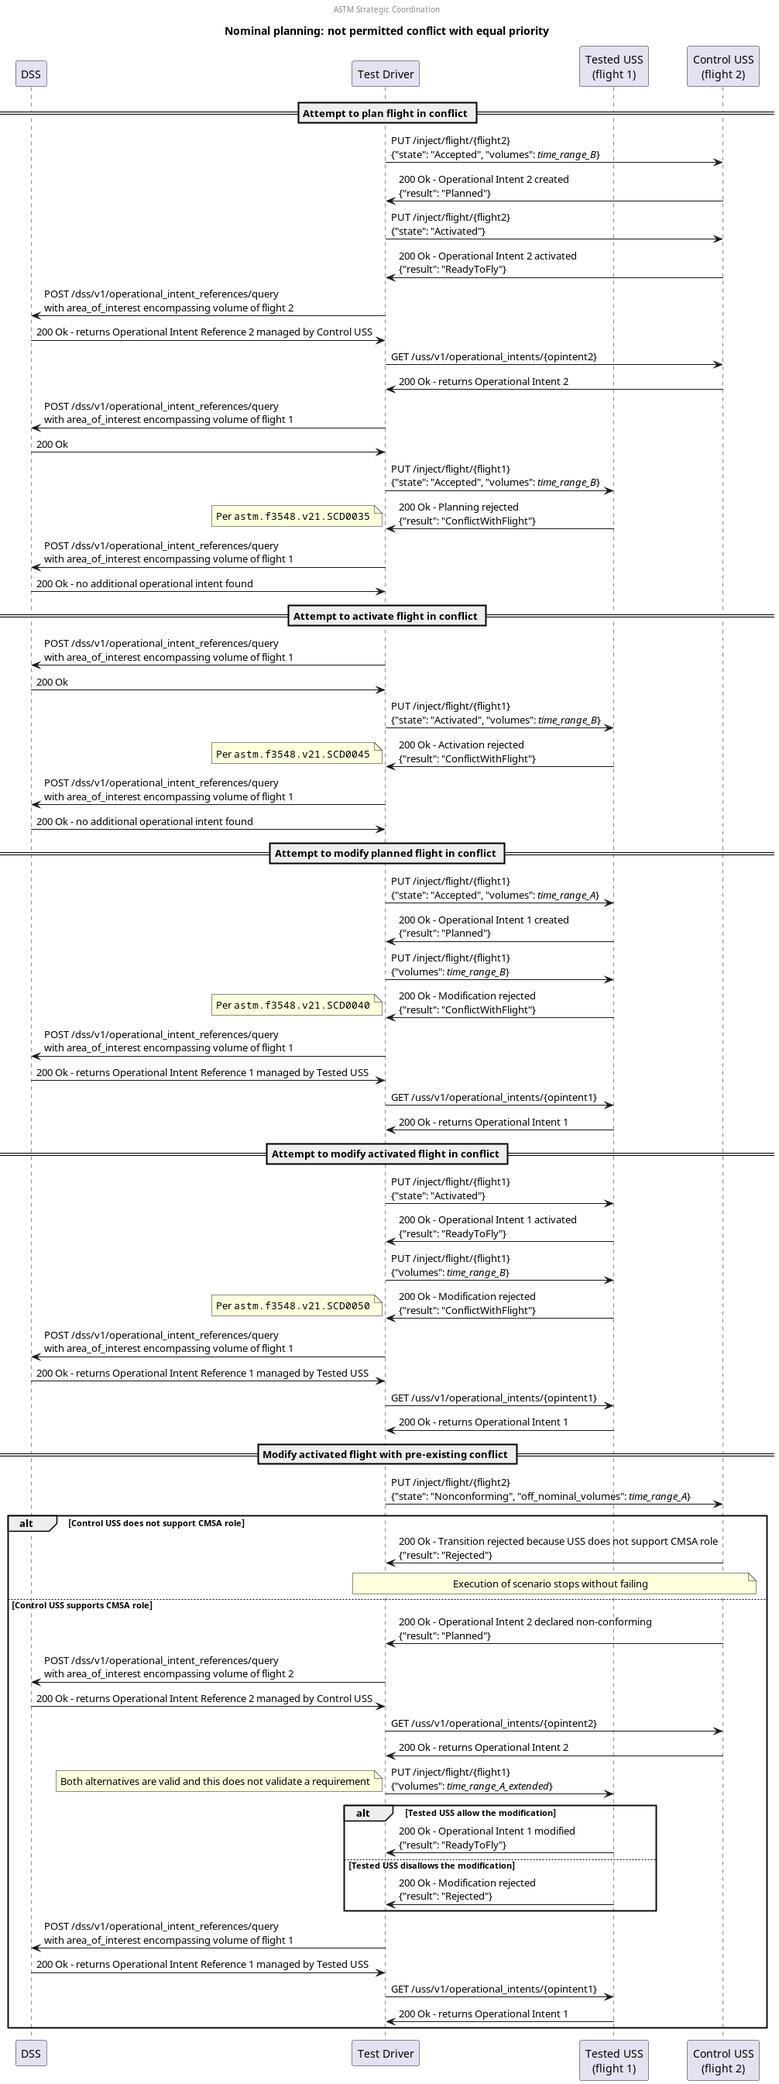
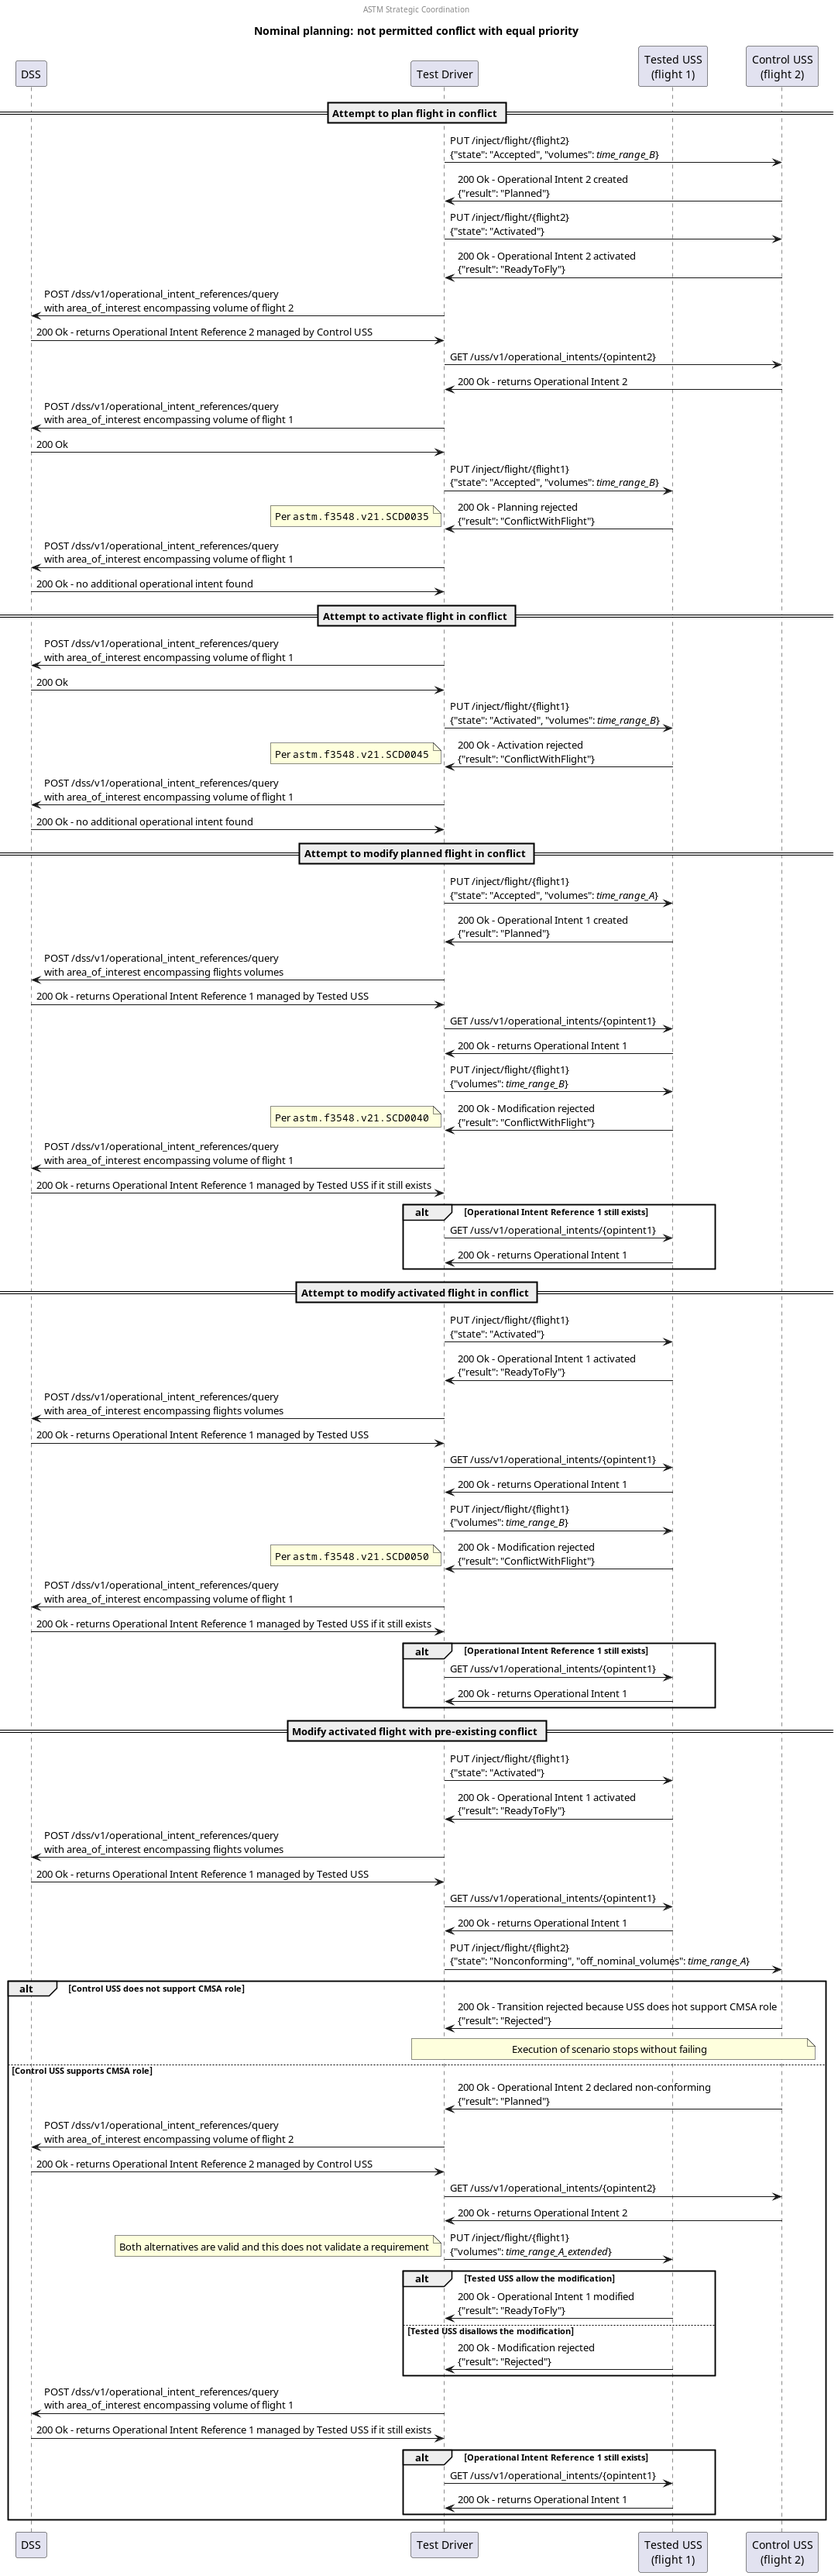
[uss_qualifier/scenarios/utm/nominal_planning] Allow flight deletion after modification rejection (#154)
* [uss_qualifier/scenarios/utm/nominal_planning] Allow flight deletion after modification rejection; fixes #146

* more accurate details

* clarify desc of flight not modified test steps

diff --git a/monitoring/uss_qualifier/scenarios/astm/utm/nominal_planning/conflict_equal_priority_not_permitted/conflict_equal_priority_not_permitted.py b/monitoring/uss_qualifier/scenarios/astm/utm/nominal_planning/conflict_equal_priority_not_permitted/conflict_equal_priority_not_permitted.py
@@ -306,6 +306,14 @@ class ConflictEqualPriorityNotPermitted(TestScenario):
             self.tested_uss,
             self.flight_1_planned_time_range_A.request,
         )
+        validate_shared_operational_intent(
+            self,
+            self.tested_uss,
+            self.dss,
+            "Validate flight 1 sharing",
+            self.flight_1_planned_time_range_A.request,
+            resp_flight_1.operational_intent_id,
+        )
 
         _ = modify_planned_conflict_flight_intent(
             self,
@@ -322,6 +330,7 @@ class ConflictEqualPriorityNotPermitted(TestScenario):
             "Validate flight 1 not modified",
             self.flight_1_planned_time_range_A.request,
             resp_flight_1.operational_intent_id,
+            skip_if_not_found=True,
         )
 
     def _attempt_modify_activated_flight_conflict(self) -> str:
@@ -331,6 +340,14 @@ class ConflictEqualPriorityNotPermitted(TestScenario):
             self.tested_uss,
             self.flight_1_activated_time_range_A.request,
             self.flight_1_id,
+        )
+        validate_shared_operational_intent(
+            self,
+            self.tested_uss,
+            self.dss,
+            "Validate flight 1 sharing",
+            self.flight_1_activated_time_range_A.request,
+            resp_flight_1.operational_intent_id,
         )
 
         _ = modify_activated_conflict_flight_intent(
@@ -348,6 +365,7 @@ class ConflictEqualPriorityNotPermitted(TestScenario):
             "Validate flight 1 not modified",
             self.flight_1_activated_time_range_A.request,
             resp_flight_1.operational_intent_id,
+            skip_if_not_found=True,
         )
 
         return resp_flight_1.operational_intent_id
@@ -355,6 +373,22 @@ class ConflictEqualPriorityNotPermitted(TestScenario):
     def _modify_activated_flight_preexisting_conflict(
         self, orig_flight_1_op_intent_id: str
     ):
+        resp_flight_1 = activate_flight_intent(
+            self,
+            "Activate flight 1",
+            self.tested_uss,
+            self.flight_1_activated_time_range_A.request,
+            self.flight_1_id,
+        )
+        validate_shared_operational_intent(
+            self,
+            self.tested_uss,
+            self.dss,
+            "Validate flight 1 sharing",
+            self.flight_1_activated_time_range_A.request,
+            resp_flight_1.operational_intent_id,
+        )
+
         # TODO: the following call requires the control USS to support CMSA role,
         #  but as there is currently no explicit way of knowing if it is the case
         #  or not, we assume that a Rejected result means the USS does not
@@ -411,6 +445,7 @@ class ConflictEqualPriorityNotPermitted(TestScenario):
                 "Validate flight 1",
                 self.flight_1_activated_time_range_A.request,
                 orig_flight_1_op_intent_id,
+                skip_if_not_found=True,
             )
 
     def cleanup(self):

diff --git a/monitoring/uss_qualifier/scenarios/astm/utm/test_steps.py b/monitoring/uss_qualifier/scenarios/astm/utm/test_steps.py
@@ -1,4 +1,4 @@
-from typing import List, Set
+from typing import List
 
 from monitoring.monitorlib import schema_validation, fetch
 from uas_standards.astm.f3548.v21.api import OperationalIntentState
@@ -101,11 +101,15 @@ def validate_shared_operational_intent(
     test_step: str,
     flight_intent: InjectFlightRequest,
     op_intent_id: str,
-):
+    skip_if_not_found: bool = False,
+) -> bool:
     """Validate that operational intent information was correctly shared for a flight intent.
 
     This function implements the test step described in
     validate_shared_operational_intent.md.
+
+    :returns: True if the operational intent was validated. May return False without failing a check e.g. if the
+    operational intent was not found and skip_if_not_found was True.
     """
     scenario.begin_test_step(test_step)
     extent = bounding_vol4(
@@ -132,12 +136,20 @@ def validate_shared_operational_intent(
         "Operational intent shared correctly", [flight_planner.participant_id]
     ) as check:
         if not matching_op_intent_refs:
-            check.record_failed(
-                summary="Operational intent reference not found in DSS",
-                severity=Severity.High,
-                details=f"USS {flight_planner.participant_id} indicated that it created an operational intent with ID {op_intent_id}, but no operational intent references with that ID were found in the DSS in the area of the flight intent",
-                query_timestamps=[query.request.timestamp],
-            )
+            if not skip_if_not_found:
+                check.record_failed(
+                    summary="Operational intent reference not found in DSS",
+                    severity=Severity.High,
+                    details=f"USS {flight_planner.participant_id} was supposed to have shared an operational intent with ID {op_intent_id}, but no operational intent references with that ID were found in the DSS in the area of the flight intent",
+                    query_timestamps=[query.request.timestamp],
+                )
+            else:
+                scenario.record_note(
+                    flight_planner.participant_id,
+                    f"Operational intent reference with ID {op_intent_id} not found in DSS, instructed to skip test step.",
+                )
+                scenario.end_test_step()
+                return False
     op_intent_ref = matching_op_intent_refs[0]
 
     op_intent, query = dss.get_full_op_intent(op_intent_ref)

diff --git a/monitoring/uss_qualifier/scenarios/astm/utm/nominal_planning/conflict_higher_priority/conflict_higher_priority.py b/monitoring/uss_qualifier/scenarios/astm/utm/nominal_planning/conflict_higher_priority/conflict_higher_priority.py
@@ -264,12 +264,20 @@ class ConflictHigherPriority(TestScenario):
         )
         self.flight_2_id = None
 
-    def _attempt_modify_planned_flight_conflict(self) -> str:
+    def _attempt_modify_planned_flight_conflict(self) -> Optional[str]:
         resp_flight_1, self.flight_1_id = plan_flight_intent(
             self,
             "Plan flight 1",
             self.tested_uss,
             self.flight_1_planned_time_range_A.request,
+        )
+        validate_shared_operational_intent(
+            self,
+            self.tested_uss,
+            self.dss,
+            "Validate flight 1 sharing",
+            self.flight_1_planned_time_range_A.request,
+            resp_flight_1.operational_intent_id,
         )
 
         resp_flight_2, self.flight_2_id = plan_flight_intent(
@@ -294,6 +302,7 @@ class ConflictHigherPriority(TestScenario):
             "Validate flight 1 not modified",
             self.flight_1_planned_time_range_A.request,
             resp_flight_1.operational_intent_id,
+            skip_if_not_found=True,
         )
         validate_shared_operational_intent(
             self,
@@ -322,6 +331,7 @@ class ConflictHigherPriority(TestScenario):
             "Validate flight 1 not activated",
             self.flight_1_planned_time_range_A.request,
             flight_1_op_intent_id,
+            skip_if_not_found=True,
         )
 
     def _modify_activated_flight_conflict_preexisting(self) -> str:
@@ -330,12 +340,20 @@ class ConflictHigherPriority(TestScenario):
         )
         self.flight_2_id = None
 
-        _ = activate_flight_intent(
+        resp_flight_1 = activate_flight_intent(
             self,
             "Activate flight 1",
             self.tested_uss,
             self.flight_1_activated_time_range_A.request,
             self.flight_1_id,
+        )
+        validate_shared_operational_intent(
+            self,
+            self.tested_uss,
+            self.dss,
+            "Validate flight 1 sharing",
+            self.flight_1_activated_time_range_A.request,
+            resp_flight_1.operational_intent_id,
         )
 
         _, self.flight_2_id = plan_flight_intent(
@@ -404,6 +422,7 @@ class ConflictHigherPriority(TestScenario):
             "Validate flight 1 not modified",
             self.flight_1_activated_time_range_A_extended.request,
             flight_1_op_intent_id,
+            skip_if_not_found=True,
         )
         validate_shared_operational_intent(
             self,

diff --git a/monitoring/uss_qualifier/scenarios/astm/utm/nominal_planning/conflict_equal_priority_not_permitted/conflict_equal_priority_not_permitted.md b/monitoring/uss_qualifier/scenarios/astm/utm/nominal_planning/conflict_equal_priority_not_permitted/conflict_equal_priority_not_permitted.md
@@ -103,18 +103,25 @@ Flight 1 should not have been activated directly.
 ### [Plan flight 1 test step](../../../../flight_planning/plan_flight_intent.md)
 Flight 1 on time range A should be successfully planned by the tested USS.
 
+### [Validate flight 1 sharing test step](../../validate_shared_operational_intent.md)
+
 ### [Attempt to modify planned flight 1 in conflict test step](../../../../flight_planning/modify_planned_conflict_flight_intent.md)
 The test driver attempts to modify flight 1 via the tested USS so that it becomes planned on time range B.
 However, this conflicts with flight 2, which is of equal priority but was planned first.
 As such it should be rejected per **[astm.f3548.v21.SCD0040](../../../../../requirements/astm/f3548/v21.md)**.
 
 ### [Validate flight 1 not modified test step](../../validate_shared_operational_intent.md)
-Flight 1 should not have been modified.
+Because the modification attempt was invalid, either Flight 1 should not have been modified (because the USS kept the
+original accepted request), or it should have been removed (because the USS rejected the replacement plan provided).
 
 
 ## Attempt to modify activated flight in conflict test case
 ### [Activate flight 1 test step](../../../../flight_planning/activate_flight_intent.md)
 The test driver activates flight 1 onto its time range A, which should be done successfully.
+Note that flight 1 could be either planned or non-existent before this step. In the latter case, the flight will be
+directly activated without being planned beforehand.
+
+### [Validate flight 1 sharing test step](../../validate_shared_operational_intent.md)
 
 ### [Attempt to modify activated flight 1 in conflict test step](../../../../flight_planning/modify_activated_conflict_flight_intent.md)
 The test driver attempts to modify flight 1 so that it becomes in conflict with flight 2 onto time range B.
@@ -122,10 +129,19 @@ Both flights are activated at that point. However, because the conflict did not 
 initiated, it should be rejected per **[astm.f3548.v21.SCD0050](../../../../../requirements/astm/f3548/v21.md)**.
 
 ### [Validate flight 1 not modified test step](../../validate_shared_operational_intent.md)
-Flight 1 should not have been modified.
+Because the modification attempt was invalid, either Flight 1 should not have been modified (because the USS kept the
+original accepted request), or it should have been removed (because the USS rejected the replacement plan provided).
 
 
 ## Modify activated flight with pre-existing conflict test case
+### [Activate flight 1 test step](../../../../flight_planning/activate_flight_intent.md)
+The test driver activates flight 1 onto its time range A, which should be done successfully.
+Note that flight 1 could be either already activated or non-existent before this step. In the former case, the call is
+idempotent and nothing should change. In the latter case, the flight will be directly activated without being planned
+beforehand.
+
+### [Validate flight 1 sharing test step](../../validate_shared_operational_intent.md)
+
 ### Declare flight 2 non-conforming test step
 The test driver instructs the control USS to declare flight 2 as non-conforming with an off-nominal volume onto time
 range A. This makes non-conforming flight 2 conflicts with activated flight 1.
@@ -168,8 +184,9 @@ to reject or accept the flight. If the USS indicates that the injection attempt 
 
 ### [Validate flight 1 test step](../../validate_shared_operational_intent.md)
 This step validates that the response of the USS is consistent with the flight shared, i.e. either it was properly
-modified or it remained the same as previously.
-
+modified, or the USS considered the attempt invalid. In the latter case, because the modification attempt was invalid,
+either Flight 1 should not have been modified (because the USS kept the original accepted request), or it should have
+been removed (because the USS rejected the replacement plan provided).
 
 ## Cleanup
 ### Successful flight deletion check

diff --git a/monitoring/uss_qualifier/scenarios/astm/utm/nominal_planning/conflict_higher_priority/conflict_higher_priority.md b/monitoring/uss_qualifier/scenarios/astm/utm/nominal_planning/conflict_higher_priority/conflict_higher_priority.md
@@ -83,6 +83,8 @@ higher priority. As such it should be rejected per **[astm.f3548.v21.SCD0015](..
 ### [Plan flight 1 test step](../../../../flight_planning/plan_flight_intent.md)
 The first flight should be successfully planned by the tested USS.
 
+### [Validate flight 1 sharing test step](../../validate_shared_operational_intent.md)
+
 ### [Plan flight 2 test step](../../../../flight_planning/plan_flight_intent.md)
 The second flight should be successfully planned by the control USS.
 It conflicts with flight 1, but it has higher priority.
@@ -93,19 +95,21 @@ However, it conflicts with flight 2, which is of higher priority and was planned
 As such it should be rejected per **[astm.f3548.v21.SCD0020](../../../../../requirements/astm/f3548/v21.md)**.
 
 ### [Validate flight 1 not modified test step](../../validate_shared_operational_intent.md)
-The first flight should not have been modified.
+Because the modification attempt was invalid, either Flight 1 should not have been modified (because the USS kept the
+original accepted request), or it should have been removed (because the USS rejected the replacement plan provided).
 
 ### [Validate flight 2 sharing test step](../../validate_shared_operational_intent.md)
 
 
 ## Attempt to activate flight in conflict test case
 ### [Attempt to activate conflicting flight 1 test step](../../../../flight_planning/activate_priority_conflict_flight_intent.md)
-The test driver attempts to activate planned flight 1, however, it conflicts with flight 2, which is also planned and of
-higher priority.
+The test driver attempts to activate flight 1, however, it conflicts with flight 2, which is also planned and of
+higher priority. Note that flight 1 could be either planned or non-existent before this step.
 As such it should be rejected per **[astm.f3548.v21.SCD0025](../../../../../requirements/astm/f3548/v21.md)**.
 
 ### [Validate flight 1 not activated test step](../../validate_shared_operational_intent.md)
-The first flight should not have been activated.
+Because the modification attempt was invalid, either Flight 1 should not have been modified (because the USS kept the
+original accepted request), or it should have been removed (because the USS rejected the replacement plan provided).
 
 
 ## Modify activated flight with pre-existing conflict test case
@@ -113,6 +117,10 @@ The first flight should not have been activated.
 
 ### [Activate flight 1 test step](../../../../flight_planning/activate_flight_intent.md)
 The test driver activates flight 1, which should be done successfully given that it is now the highest-priority flight.
+Note that flight 1 could be either planned or non-existent before this step. In the latter case, the flight will be
+directly activated without being planned beforehand.
+
+### [Validate flight 1 sharing test step](../../validate_shared_operational_intent.md)
 
 ### [Plan flight 2 test step](../../../../flight_planning/plan_flight_intent.md)
 The second flight should be successfully planned by the control USS.
@@ -144,7 +152,8 @@ However, because the conflict did not exist when the modification was initiated,
 per **[astm.f3548.v21.SCD0030](../../../../../requirements/astm/f3548/v21.md)**.
 
 ### [Validate flight 1 not modified test step](../../validate_shared_operational_intent.md)
-The first flight should not have been modified.
+Because the modification attempt was invalid, either Flight 1 should not have been modified (because the USS kept the
+original accepted request), or it should have been removed (because the USS rejected the replacement plan provided).
 
 ### [Validate flight 2 sharing test step](../../validate_shared_operational_intent.md)
 
